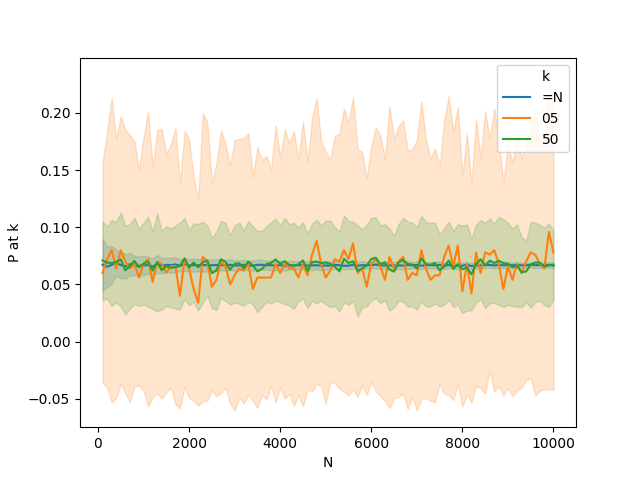
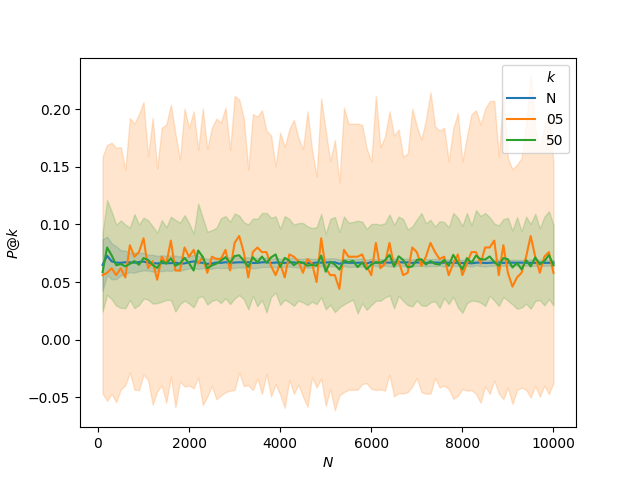
Use LaTeX labels on convergence plots

diff --git a/etc/4-rdcg/script.py b/etc/4-rdcg/script.py
@@ -1,10 +1,12 @@
 import random
 
+import matplotlib.pyplot as plt
 import numpy as np
 import pandas as pd
 import seaborn as sns
+from tqdm import tqdm
 
-g = {"TOTAL": 0, "DONES": 0}
+pbar = None
 
 
 def identity(v):
@@ -52,8 +54,7 @@ class RDCG(Metric):
         min_dcg = self._dcg(sorted(r))
         a = self._dcg(r) - min_dcg
         b = max_dcg - min_dcg
-        g["DONES"] += 1
-        print(f"{g['DONES']}/{g['TOTAL']}")
+        pbar.update(1)
         return a / b if b > 0 else 0
 
 
@@ -68,23 +69,45 @@ def gen_ranking(n):
 
 
 def main():
+    global pbar
+
+    # experiment 1
     sampling = 100
     linspace = np.linspace(10 ** 2, 10 ** 4, num=100)
     ranksize = [int(i) for i in np.rint(linspace)]
     rankings = [gen_ranking(n) for n in ranksize for _ in range(sampling)]
-    g["TOTAL"] = len(rankings) * 3
-    print(g["TOTAL"])
 
+    pbar = tqdm(total=len(rankings) * 3)
     df = pd.DataFrame(
-        [[r.size, "=N", rdcg_nn(r)] for r in rankings]
+        [[r.size, "N", rdcg_nn(r)] for r in rankings]
         + [[r.size, "05", rdcg_05(r)] for r in rankings]
         + [[r.size, "50", rdcg_50(r)] for r in rankings],
-        columns=["N", "k", "RDCG@k"],
+        columns=["$N$", "$k$", "$RDCG@k$"],
     )
     sns.lineplot(
-        x="N", y="RDCG@k", hue="k", ci="sd", data=df
-    ).get_figure().savefig("rdcg.png")
+        x="$N$", y="$RDCG@k$", hue="$k$", ci="sd", data=df
+    ).get_figure().savefig("rdcg1.png")
+    pbar.close()
 
+    plt.clf()
+
+    # experiment 2
+    sampling = 100
+    linspace = np.linspace(10 ** 2, 10 ** 5, num=100)
+    ranksize = [int(i) for i in np.rint(linspace)]
+    rankings = [gen_ranking(n) for n in ranksize for _ in range(sampling)]
+
+    pbar = tqdm(total=len(rankings) * 3)
+    df = pd.DataFrame(
+        [[r.size, "N", rdcg_nn(r)] for r in rankings]
+        + [[r.size, "05", rdcg_05(r)] for r in rankings]
+        + [[r.size, "50", rdcg_50(r)] for r in rankings],
+        columns=["$N$", "$k$", "$RDCG@k$"],
+    )
+    sns.lineplot(
+        x="$N$", y="$RDCG@k$", hue="$k$", ci="sd", data=df
+    ).get_figure().savefig("rdcg2.png")
+    pbar.close()
 
 if __name__ == "__main__":
     main()

diff --git a/etc/2-avep/script.py b/etc/2-avep/script.py
@@ -64,16 +64,14 @@ def main():
     rankings = [gen_ranking(n) for n in linspace for _ in range(sampling)]
 
     df = pd.DataFrame(
-        [[r.size, "=N", avep_nn(r)] for r in rankings]
+        [[r.size, "N", avep_nn(r)] for r in rankings]
         + [[r.size, "10", avep_05(r)] for r in rankings]
         + [[r.size, "50", avep_50(r)] for r in rankings],
-        columns=["N", "k", "barP"],
+        columns=["$N$", "$k$", r"$\bar{P}@k$"],
     )
     sns.lineplot(
-        x="N", y="barP", hue="k", ci="sd", data=df
-    ).get_figure().savefig("barp.png")
-    print(df)
-    return df
+        x="$N$", y=r"$\bar{P}@k$", hue="$k$", ci="sd", data=df
+    ).get_figure().savefig("avep.png")
 
 
 if __name__ == "__main__":

diff --git a/etc/1-p@k/script.py b/etc/1-p@k/script.py
@@ -45,15 +45,14 @@ def main():
     rankings = [gen_ranking(n) for n in linspace for _ in range(sampling)]
 
     df = pd.DataFrame(
-        [[r.size, "=N", patk_nn(r)] for r in rankings]
+        [[r.size, "N", patk_nn(r)] for r in rankings]
         + [[r.size, "05", patk_05(r)] for r in rankings]
         + [[r.size, "50", patk_50(r)] for r in rankings],
-        columns=["N", "k", "P at k"],
+        columns=["$N$", "$k$", "$P@k$"],
     )
     sns.lineplot(
-        x="$N$", y="$P@k$", hue="k", ci="sd", data=df,
+        x="$N$", y="$P@k$", hue="$k$", ci="sd", data=df,
     ).get_figure().savefig("patk.png")
-    return df
 
 
 if __name__ == "__main__":

diff --git a/etc/3-ndcg/script.py b/etc/3-ndcg/script.py
@@ -67,13 +67,13 @@ def main():
     rankings = [gen_ranking(n) for n in ranksize for _ in range(sampling)]
 
     df = pd.DataFrame(
-        [[r.size, "=N", ndcg_nn(r)] for r in rankings]
+        [[r.size, "N", ndcg_nn(r)] for r in rankings]
         + [[r.size, "05", ndcg_05(r)] for r in rankings]
         + [[r.size, "50", ndcg_50(r)] for r in rankings],
-        columns=["N", "k", "NDCG@k"],
+        columns=["$N$", "$k$", "$NDCG@k$"],
     )
     sns.lineplot(
-        x="N", y="NDCG@k", hue="k", ci="sd", data=df
+        x="$N$", y="$NDCG@k$", hue="$k$", ci="sd", data=df
     ).get_figure().savefig("ndcg.png")
 
 
